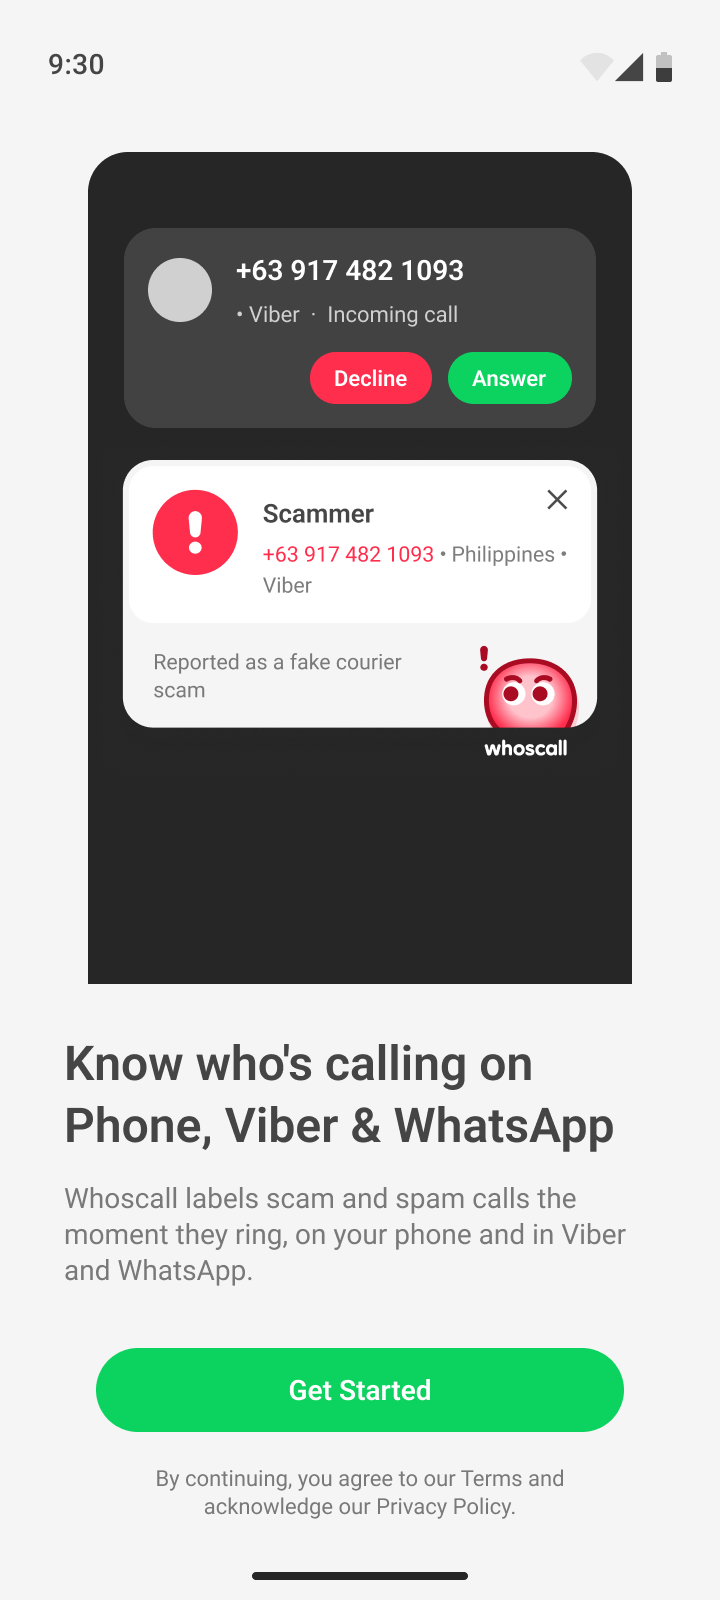
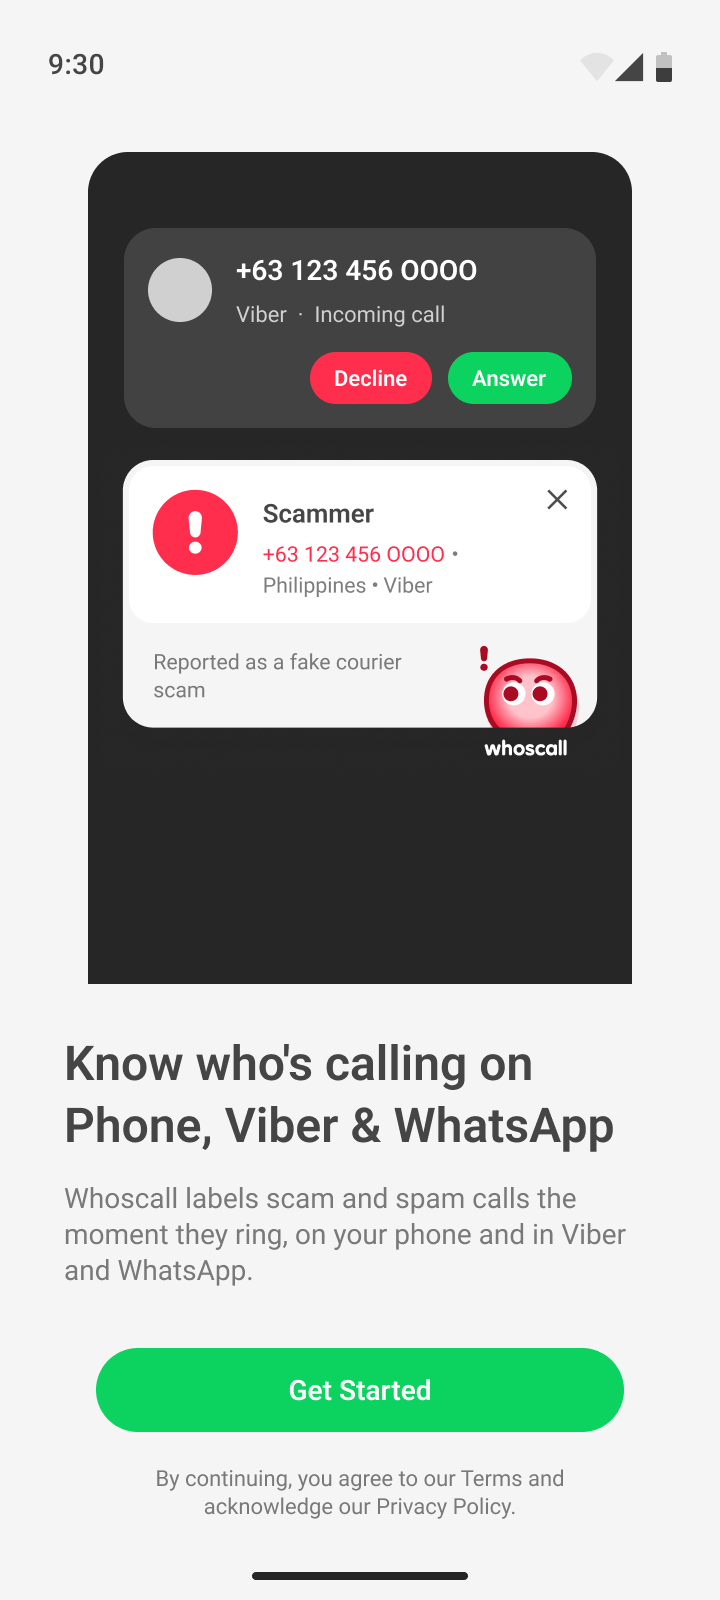
Update Figma exports (new UI, placeholder number +63 123 456 OOOO); remove GIFs

diff --git a/index.html b/index.html
@@ -49,12 +49,12 @@ h1{font-size:clamp(22px,3.2vw,30px);font-weight:700;margin:0;text-wrap:balance;l
 /* ---------- V1: everything inside the phone screen (Figma x88 y102 w184 h380) ---------- */
 .v1 .clip{position:absolute;left:88px;top:102px;width:184px;height:380px;border-radius:20px;overflow:hidden}
 .v1 .crop{position:absolute;background-size:360px 800px;background-repeat:no-repeat;pointer-events:none}
-.v1 .cd{left:0;top:80px;width:184px;height:134px;background-position:-88px -182px}
+.v1 .cd{left:0;top:94px;width:184px;height:122px;background-position:-88px -196px}
 .v1 .full{left:0;top:0;width:184px;height:380px;background-position:-88px -102px}
-.v1 .c2{opacity:0;transform:translateY(-16px)}
+.v1 .c2{opacity:0;transform:translateY(-10px)}
 .v1 .c3{opacity:0;transform-origin:50% 30%}
 .v1 .c4d,.v1 .c4a{opacity:0}
-.v1 .pulse{position:absolute;left:60px;top:88px;width:64px;height:64px;border-radius:50%;opacity:0;pointer-events:none}
+.v1 .pulse{position:absolute;left:60px;top:104px;width:64px;height:64px;border-radius:50%;opacity:0;pointer-events:none}
 .v1.anim .c2{transition:opacity .35s ease-out,transform .5s cubic-bezier(.2,.8,.2,1)}
 .v1.s1 .pulse{opacity:1;animation:ring 1.1s ease-out infinite}
 @keyframes ring{0%{box-shadow:0 0 0 0 rgba(209,208,208,.55)}100%{box-shadow:0 0 0 16px rgba(209,208,208,0)}}
@@ -134,7 +134,7 @@ footer{font-size:12.5px;line-height:1.6;color:var(--shell-muted);border-top:1px 
 
 <script>
 const A='prototype_assets/';
-const VER='?v=20261106d';
+const VER='?v=20261106e';
 const BEATS=['Beat 1 · Ringing','Beat 2 · Searching','Beat 3 · Identified','Beat 4 · Declined','Beat 4 · Answered'];
 const screens=[...document.querySelectorAll('.screen')];
 const reduce=window.matchMedia&&matchMedia('(prefers-reduced-motion: reduce)').matches;

diff --git a/README.md b/README.md
@@ -5,6 +5,6 @@ Proposal UI for the Whoscall Android onboarding first screen (PH market test).
 - **V1 · Simulated call (story)**: the phone rings, the Whoscall call dialog slides in and shows "Scammer", Decline is tapped and the call is blocked.
 - **V2 · Before / After (slider)**: drag the slider toward After and the background glows.
 
-Each version has C1 (caller ID) and C2 (Phone + Viber + WhatsApp) copy. Phone screens are 2x exports from Figma. Animated GIFs are in `gifs/`.
+Each version has C1 (caller ID) and C2 (Phone + Viber + WhatsApp) copy. Phone screens are 2x exports from Figma.
 
 Live page: https://vernagong-lab.github.io/ph-getstarted-prototype/
